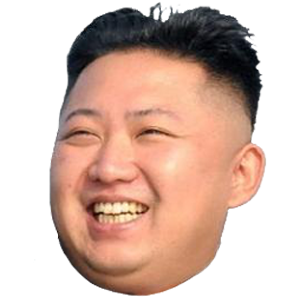
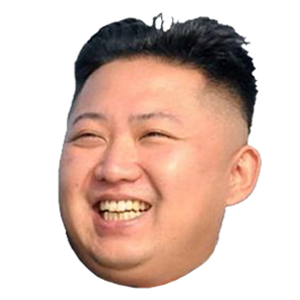
V3.3
Changement mineurs CSS +  JS (temps, nettoyage, améliorations). Images avec bordures.

Changed region(s): [[0.15, 0.0, 0.9, 0.99]]

diff --git a/js/main.js b/js/main.js
@@ -89,7 +89,7 @@ function initialiser(evt) {
 
 //Initialize the game : play menu
 function initialiseGame(evt) {
-    const nb_chairs = document.querySelector(".slider").value;
+    nb_chairs = document.querySelector(".slider").value;
     createObjects(nb_chairs);
     players = document.querySelectorAll("#players_area>img");
     chairs = document.querySelectorAll("#chairs_area>img");
@@ -111,17 +111,20 @@ function createObjects(nb_chairs) {
         chair.setAttribute("alt", "Une chaise");
         document.getElementById("chairs_area").appendChild(chair);
         //Players
+        let dictator = players_heads[players_heads_positions_alea[i]];
         let player = document.createElement("img");
-        player.setAttribute("src", "images/" + players_heads[players_heads_positions_alea[i]] + "_head.png");
-        player.setAttribute("alt", "Un joueur");
+        player.setAttribute("src", "images/" + dictator + "_head.png");
+        player.setAttribute("alt", dictator);
+        player.setAttribute("title", dictator);
         players_area.appendChild(player);
     }
     //Player user according to the chosen avatar
     let choicePlayer = document.querySelector('input[name="avatar"]:checked').value;
     let player = document.createElement("img");
-    player.setAttribute("src", "images/"+choicePlayer+"_head.png");
+    player.setAttribute("src", "images/" + choicePlayer + "_head.png");
     player.setAttribute("id", "player_character");
-    player.setAttribute("alt", "Votre joueur");
+    player.setAttribute("alt", "Ton joueur : " + choicePlayer);
+    player.setAttribute("title", "Ton joueur : " + choicePlayer);
     players_area.appendChild(player);
 }
 
@@ -130,46 +133,49 @@ function placeObjects() {
     //Chairs
     if (round != nb_chairs) {
         for (let i = 0; i < chairs.length; i++) {
-            chairs[i].style.transform = "rotate(" + (360 / chairs.length) * (i+1) + "deg) translate(0px, -130px)";
+            chairs[i].style.transform = "rotate(" + (360 / chairs.length) * (i + 1) + "deg) translate(0px, -130px)";
         }
     } else {
         chairs[0].style.transform = "rotate(0deg) translate(0px, 0px)";
     }
     //Players
     for (let i = 0; i < players.length; i++) {
-        players[i].style.transform = "rotate(" + (360 / players.length) * (i+1) + "deg) translate(0px, -230px)";
+        players[i].style.transform = "rotate(" + (360 / players.length) * (i + 1) + "deg) translate(0px, -230px)";
     }
 }
 
 //Start or restart the game, when the user clicks the start_music button
 function playGame(evt) {
     if (round > 1) {
-        loser_area.style.animation = "none";
+        loser_area.classList.remove("animationPaused");
+        loser_area.classList.remove("animationRotatePlayers");
         loser_area.offsetHeight; /* trigger reflow */
-        chair_chosen = undefined;
-        players_area.style.zIndex = null;
         document.querySelector(".loser").remove();
+        chair_chosen = undefined;
+        players_area.classList.remove("above");
         chairs[0].remove();
         players = document.querySelectorAll("#players_area>img");
         chairs = document.querySelectorAll("#chairs_area>img");
         placeObjects();
     }
-    play_menu.style.cursor = "none";
-    button_start_music.style.visibility = "hidden";
     startMusic();
-    players_area.style.animation = "rotatePlayers 5s linear infinite";
-    loser_area.style.animation = "rotatePlayers 5s linear infinite";
+    play_menu.classList.add("noCursor");
+    button_start_music.classList.add("invisible");
+    loser_area.classList.add("animationRotatePlayers");
+    players_area.classList.add("animationRotatePlayers");
 }
 
 //Pause the game and let the user choose a chair as quickly as possible
 function pauseGame(evt) {
-    play_menu.style.cursor = null;
     stopMusic();
+    play_menu.classList.remove("noCursor");
     for (let a_chair of chairs) {
-        a_chair.style.cursor = "pointer";
+        a_chair.classList.add("pointerCursor");
         a_chair.addEventListener("click", chooseChair);
     }
-    let sit_time = Math.random() * ((2000 / round) + 200 - (200 / round) + 200) + (200 / round) + 200;
+    let max_sit_time = 3200 - (2000 * (round / nb_chairs));
+    let min_sit_time = 800 - (300 * (round / nb_chairs));
+    let sit_time = Math.random() * (max_sit_time - min_sit_time) + min_sit_time;
     let delay_sit = setTimeout(sitDownAllPlayers, sit_time);
 }
 
@@ -182,12 +188,12 @@ function chooseChair(evt) {
 function sitDownAllPlayers(evt) {
     let info = document.getElementById("info");
     let info_text = document.querySelector("#info_frame>p");
-    
-    players_area.style.animation = null;
-    loser_area.style.animationPlayState = "paused";
-    players_area.style.zIndex = 1;
+
+    loser_area.classList.add("animationPaused");
+    players_area.classList.remove("animationRotatePlayers");
+    players_area.classList.add("above");
     for (let a_chair of chairs) {
-        a_chair.style.cursor = null;
+        a_chair.classList.remove("pointerCursor");
         a_chair.removeEventListener("click", chooseChair);
     }
     let players_positions_alea = mixPositions(players);
@@ -195,26 +201,26 @@ function sitDownAllPlayers(evt) {
     if (chair_chosen) {
         for (let i = 0; i < chairs.length; i++) {
             if (chairs[i] == chair_chosen) {
-                players[players.length - 1].style.transform = chairs[i].style.transform;
                 players[players_positions_alea[i]].classList.add("loser");
                 loser_area.appendChild(players[players_positions_alea[i]]);
+                players[players.length - 1].style.transform = chairs[i].style.transform;
             } else {
                 players[players_positions_alea[i]].style.transform = chairs[i].style.transform;
             }
         }
         round++;
         if (round <= nb_chairs) {
-            button_start_music.style.visibility = "visible";
+            button_start_music.classList.remove("invisible");
         } else {
             info_text.innerHTML = "Vous avez vaincu tous les dictateurs ! Bravo !";
             info.classList.add("active");
         }
-    //The user loses the round and therefore the game
+        //The user loses the round and therefore the game
     } else {
         for (let i = 0; i < chairs.length; i++) {
-            players[players_positions_alea[i]].style.transform = chairs[i].style.transform;
             players[players.length - 1].classList.add("loser");
             loser_area.appendChild(players[players.length - 1]);
+            players[players_positions_alea[i]].style.transform = chairs[i].style.transform;
         }
         info_text.innerHTML = "Les dictateurs ont gagné...";
         info.classList.add("active");

diff --git a/css/style.css b/css/style.css
@@ -2,16 +2,39 @@
 
 
 /*------------------------------
-General
+Events
 ------------------------------*/
 .active {
     display: flex !important;
 }
 
-/*.visible {
-    visibility: visible !important;
-}*/
+.animationRotatePlayers {
+    animation: rotatePlayers 5s linear infinite;
+}
 
+.animationPaused {
+    animation-play-state: paused;
+}
+
+.noCursor {
+    cursor: none;
+}
+
+.pointerCursor {
+    cursor: pointer;
+}
+
+.above {
+    z-index: 1;
+}
+
+.invisible {
+    visibility: hidden;
+}
+
+/*------------------------------
+General
+------------------------------*/
 html {
     font-size: 14px;
 }
@@ -132,8 +155,6 @@ input[type="range"]:after {
     background-position: center;
     background-repeat: no-repeat;
     background-size: 90%;
-    border: 5px solid;
-    border-color: #a2130a;
     box-sizing: border-box;
     display: inline-block;
     width: 120px;
@@ -141,24 +162,34 @@ input[type="range"]:after {
 }
 
 .avatar:hover + label {
-    border-color: white;
     cursor: pointer;
 }
 
-.avatar:checked + label {
-    border-color: white;
-}
-
-#baptiste + label {
+#baptiste:checked + label,
+#baptiste:hover + label {
     background-image: url(../images/baptiste_head.png);
 }
 
+#clara:checked + label,
+#clara:hover + label {
+    background-image: url(../images/baptiste_head.png);
+}
+
+#lucas:checked + label,
+#lucas:hover + label {
+    background-image: url(../images/baptiste_head.png);
+}
+
+#baptiste + label {
+    background-image: url(../images/baptiste_head_noBorder.png);
+}
+
 #clara + label {
-    background-image: url(../images/hollande_head.png);
+    background-image: url(../images/baptiste_head_noBorder.png);
 }
 
 #lucas + label {
-    background-image: url(../images/staline_head.png);
+    background-image: url(../images/baptiste_head_noBorder.png);
 }
 
 
@@ -272,12 +303,13 @@ h2:hover {
 Responsive
 ------------------------------*/
 @media (max-width: 768px) {
+
     #home_menu,
     #play_menu {
         border: 0.5rem solid white;
         padding: 1rem;
     }
-    
+
     #parameters {
         flex-direction: column;
     }
